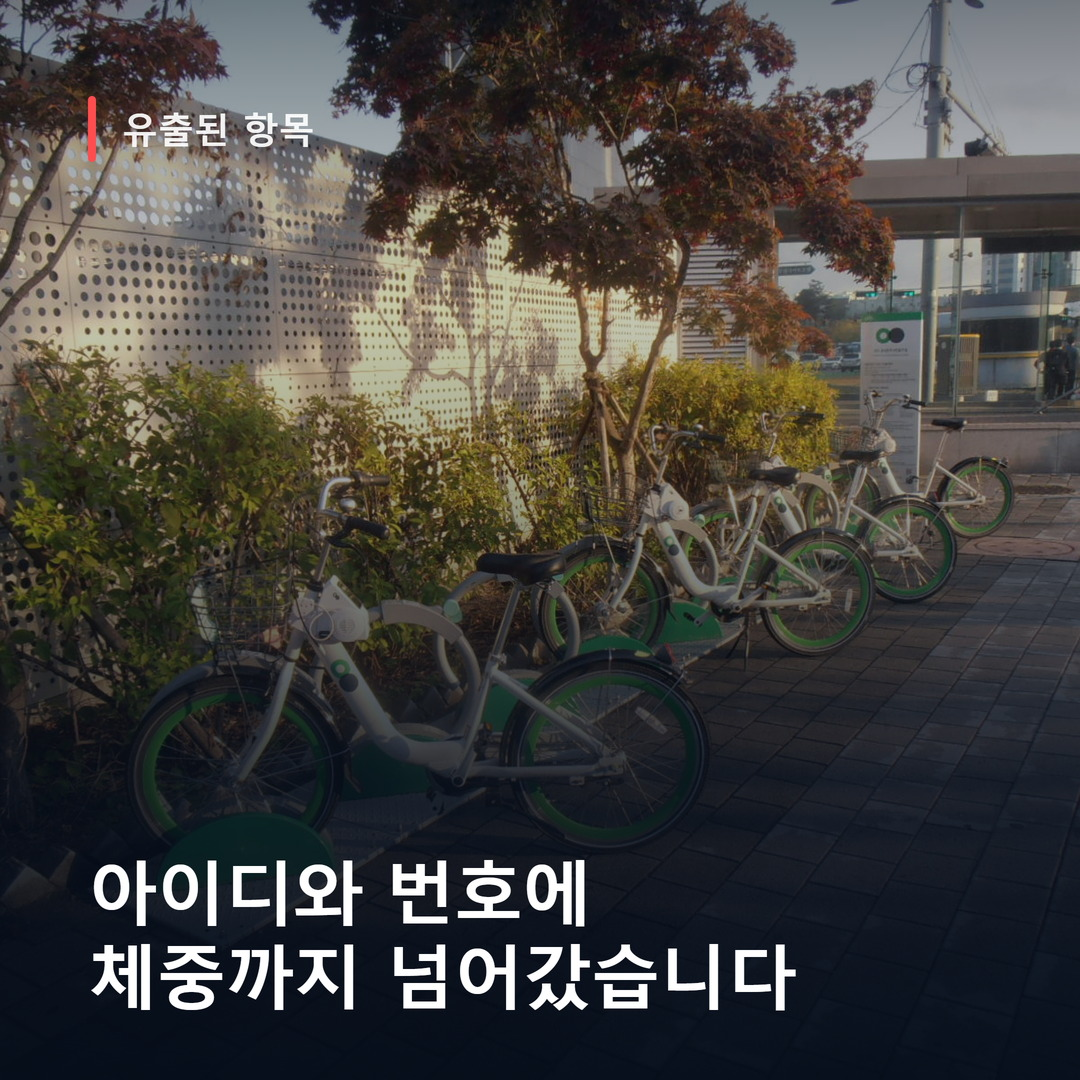
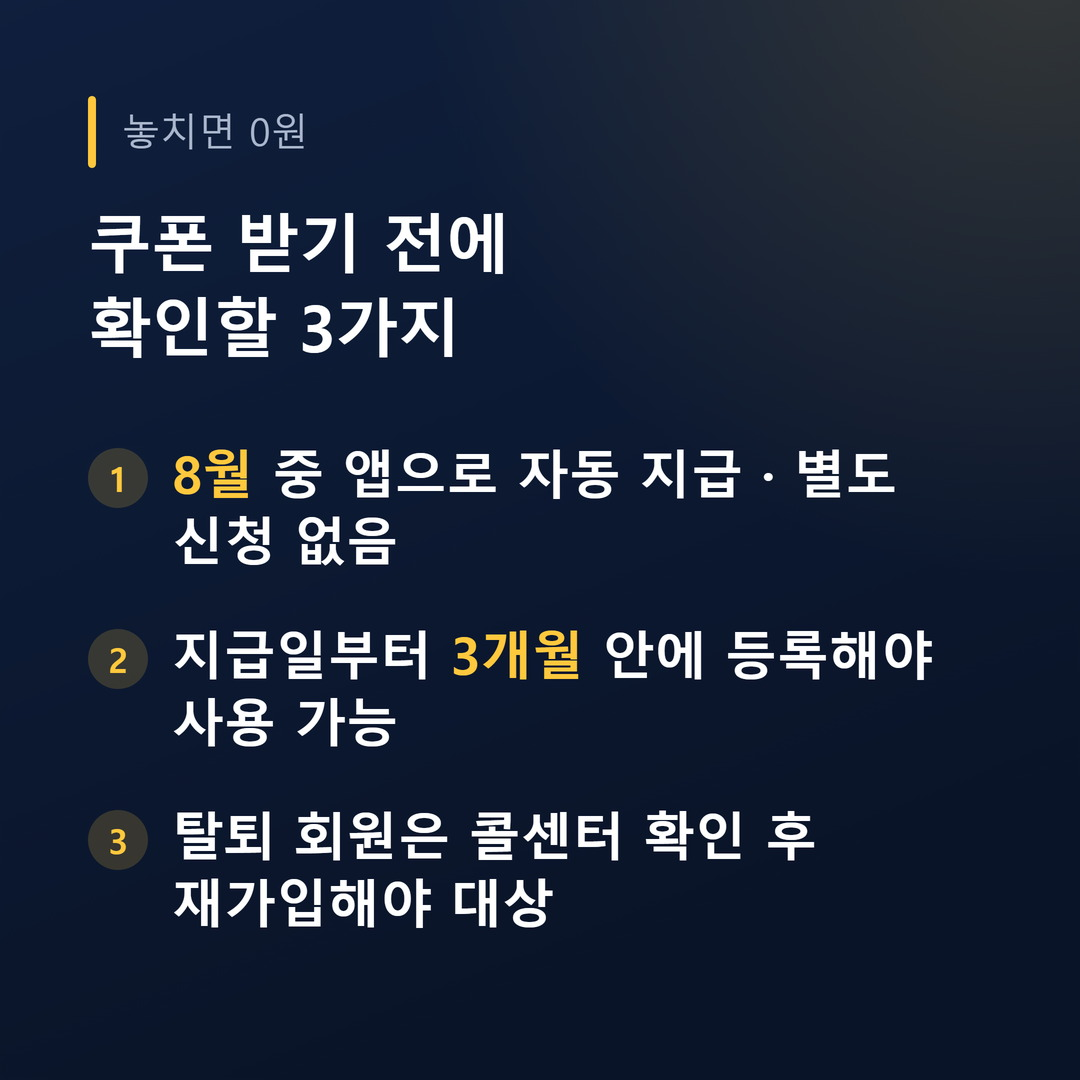
tune: 홈판 분량 1455에서 1002자로, 이미지 5장에서 3장으로
1400~1600 은 economy-blog 스펙을 근거 없이 가져온 값이었다.
그 문서에도 왜 그 숫자인지 근거가 없다. 게다가 구해돈 매뉴얼 첫 줄은
economy-blog 를 홈판용, 여기를 검색 유입용으로 명시하고 있다.

줄이는 근거 세 가지
  1. 링크를 26퍼센트에 두는 설계와 긴 본문이 서로 싸운다. 뒤에 74퍼센트가 남는다.
  2. 같은 소재로 10건을 뿌리므로 길수록 유사문서 표면적이 커진다.
  3. 렌더 비용 10건x5장 50장에서 30장으로.

빌더가 분량과 장수를 데이터에서 읽도록 고쳤다. chars_range 로 트랙마다 조정한다.
1002자 대비 카드 33퍼센트 텍스트 85퍼센트. 문제 0건.

다만 1400 도 1000 도 실측 근거는 없다. 발행 결과로 정해야 한다.

diff --git a/output/0810_홈판/네이버_스탠바이_홈판.html b/output/0810_홈판/네이버_스탠바이_홈판.html
@@ -15,7 +15,7 @@ table{width:100%;border-collapse:collapse;background:#fff;font-size:13px;border:
 th,td{border-bottom:1px solid #eef1f5;padding:9px 12px;text-align:left} th{background:#eef1f5}
 </style>
 <h1>구해돈 · 네이버 홈판 스탠바이</h1>
-<div class="meta">0810 · 따릉이 개인정보 유출 보상 · 본문 1,455자 · 사진 5장 · 검증 문제 없음</div>
+<div class="meta">0810 · 따릉이 개인정보 유출 보상 · 본문 1,002자 · 사진 3장 · 검증 문제 없음</div>
 
 <div class="warn">
 <b>붙여넣는 순서</b><br>
@@ -41,8 +41,6 @@ th,td{border-bottom:1px solid #eef1f5;padding:9px 12px;text-align:left} th{backg
 시중가 5,000원 상당이고 8월 중에 앱으로 들어옵니다.
 그런데 막상 확인해보면 내가 대상인지부터 애매한 분들이 많습니다.
    
-【2번 사진】
-   
 📌 대상자 기준이 생각보다 갈립니다
 유출이 일어난 시점은 2024년 6월 28일에서 29일 사이입니다.
 기준은 지금 회원인지가 아니라 그때 가입 상태였는지입니다.
@@ -53,67 +51,43 @@ th,td{border-bottom:1px solid #eef1f5;padding:9px 12px;text-align:left} th{backg
 가족 명의로 쓰신 분은 명의자와 실사용자가 달라 또 갈립니다.
    
 462만 명이면 서울 인구를 훌쩍 넘는 규모입니다.
-따릉이가 서울시민만 쓰는 서비스가 아니라서 그렇습니다.
 관광이나 출장으로 딱 한 번 가입했던 분도 그대로 들어갑니다.
-   
-【3번 사진】
    
 그래서 문자를 받았는지로 판단하면 틀립니다.
 본인이 어느 갈래인지는 가입 시기부터 맞춰봐야 나옵니다.
    
+【2번 사진】
+   
 【여기에 허브 URL 단독 입력 + 엔터 → 이미지 카드】
    
-📌 왜 문자를 못 받은 사람이 더 위험할까
-문자가 안 왔으니 나는 아니라고 넘겨버리기가 참 쉽습니다.
-그런데 통지는 공단이 보유한 연락처로 나갔습니다.
+📌 문자를 못 받은 사람이 더 위험한 이유
+통지는 공단이 갖고 있던 연락처로 나갔습니다.
 그 사이 번호가 바뀌었다면 대상인데도 아무 연락을 못 받습니다.
    
-탈퇴 회원도 마찬가지입니다.
-공단은 콜센터 확인을 거쳐 재가입하면 지급 대상에 포함된다고 안내했습니다.
-가만히 있으면 대상인데도 그냥 지나갑니다.
-   
-침입 경로를 두고는 10대 청소년이 관여했다는 보도가 이어졌습니다.
-사실이라면 고난도 공격에 뚫린 게 아니라는 얘기가 됩니다.
-462만 명분 서버가 그 정도 방어선이었다는 뜻이죠.
+탈퇴 회원도 콜센터 확인 후 재가입하면 지급 대상에 들어갑니다.
+가만히 있으면 대상인데도 그냥 지나가는 겁니다.
    
 유출 항목도 가볍지 않았습니다.
 아이디와 생년월일, 성별, 번호, 이메일에 체중까지 포함됐습니다.
-자전거를 빌리려고 넣은 신체 정보가 그대로 넘어간 겁니다.
    
 📌 이 보상에서 웃는 쪽은 누구일까
-통지까지 2년 가까이 걸렸다는 점도 짚어야 합니다.
+통지까지 2년 가까이 걸렸습니다.
 유출은 2024년 6월인데 안내는 2026년 7월에 시작됐습니다.
    
-5천 원이라는 금액도 지적을 받지만 더 볼 건 지급 방식입니다.
-현금이 아니라 자사 서비스 이용권으로 나갑니다.
-공단은 현금 지출 없이 보상을 마무리할 수 있는 구조인 거죠.
+보상은 현금이 아니라 자사 서비스 이용권입니다.
+공단은 현금 지출 없이 마무리할 수 있는 구조인 거죠.
+거기에 3개월 사용 기한까지 붙습니다.
    
-여기에 3개월이라는 사용 기한이 붙습니다.
-등록하지 않고 지나가면 그 쿠폰은 조용히 소멸합니다.
-462만 장 중 실제로 쓰이는 비율은 아무도 장담하지 못합니다.
-   
-【4번 사진】
+【3번 사진】
    
 💡 안 쓰면 없던 일이 되는 보상은, 지급률이 아니라 사용률로 봐야 진짜 규모가 보입니다.
    
 📌 3개월이 언제부터인지가 사람마다 다릅니다
-상세 일정은 8월 14일에 홈페이지와 앱 공지로 안내될 예정입니다.
-별도 신청은 없고 대상자에게 자동으로 들어옵니다.
-   
-문제는 소멸일입니다.
 새로 받는 분은 지급일부터 3개월입니다.
-그런데 이미 정기권을 쓰고 계신 분은 기존 이용권이 끝난 다음부터 계산됩니다.
+그런데 이미 정기권을 쓰고 계신 분은 기존 이용권이 끝난 다음부터입니다.
    
 같은 날 받아도 소멸 날짜가 서로 다르다는 뜻입니다.
-내 쿠폰이 언제까지인지는 지금 이용권 상황을 넣어봐야 나옵니다.
-   
-【5번 사진】
-   
-한 가지만 더 조심하세요.
-공식 보상은 외부 링크를 눌러 신청하는 방식이 아닙니다.
-쿠폰 확인이나 보상금을 내세워 링크를 보내는 문자는 사칭입니다.
-   
-💡 개인정보의 값이 5천 원인 것도 씁쓸하지만, 그 5천 원마저 안 챙기면 0원이 된다는 게 진짜 결말입니다.
+쿠폰 확인을 내세워 링크를 보내는 문자는 사칭이니 조심하세요.
    
 📝 한눈에 보는 절약 노트
 지급 시기 8월 중, 방식은 앱 자동 지급입니다.
@@ -128,8 +102,8 @@ https://savemoney119.com/ttareungi-privacy-leak-compensation/
    
 #따릉이 #따릉이보상쿠폰 #따릉이개인정보유출 #따릉이정기권 #서울시설공단 #개인정보유출보상 #30일정기권 #따릉이앱</pre>
 <div style="display:none" id="u">https://savemoney119.com/ttareungi-privacy-leak-compensation/</div>
-<h2>사진 5장</h2>
-<table><tr><th>파일</th><th>종류</th><th>들어가는 자리</th><th>카피</th></tr><tr><td><b>1번 사진</b></td><td>홈판 대표 썸네일</td><td>제목 바로 아래</td><td>따릉이 5천원 쿠폰 / 3개월 뒤 사라집니다</td></tr><tr><td><b>2번 사진</b></td><td>실사 카드</td><td>도입 3문장 직후</td><td>아이디와 번호에 체중까지 넘어갔습니다</td></tr><tr><td><b>3번 사진</b></td><td>숫자 카드</td><td>대상자 갈래 설명 끝</td><td>462만 명 — 1인당 돌아온 건 5천원짜리 이용권입니다</td></tr><tr><td><b>4번 사진</b></td><td>정리 카드</td><td>관점 챕터 끝</td><td>쿠폰 받기 전에 확인할 3가지</td></tr><tr><td><b>5번 사진</b></td><td>막대 카드</td><td>소멸일 챕터 끝</td><td>알리는 데 2년, 쓰는 데 3개월</td></tr></table>
+<h2>사진 3장</h2>
+<table><tr><th>파일</th><th>종류</th><th>들어가는 자리</th><th>카피</th></tr><tr><td><b>1번 사진</b></td><td>홈판 대표 썸네일</td><td>제목 바로 아래</td><td>따릉이 5천원 쿠폰 / 3개월 뒤 사라집니다</td></tr><tr><td><b>2번 사진</b></td><td>정리 카드</td><td>중간 URL 카드 바로 위</td><td>쿠폰 받기 전에 확인할 3가지</td></tr><tr><td><b>3번 사진</b></td><td>막대 카드</td><td>관점 챕터 끝</td><td>알리는 데 2년, 쓰는 데 3개월</td></tr></table>
 <script>
 const b=document.getElementById('b');
 b.innerHTML=b.innerHTML

diff --git a/_engine/build_homefeed.py b/_engine/build_homefeed.py
@@ -34,9 +34,13 @@ REPO = pathlib.Path(__file__).resolve().parent.parent
 BR = "   "                      # 점자 빈칸 3개 — 문단 구분
 URL_SLOT = "【여기에 허브 URL 단독 입력 + 엔터 → 이미지 카드】"
 
-MIN_CHARS, MAX_CHARS = 1400, 1600
+# 분량·장수는 데이터에서 읽는다. 아직 실측으로 확정된 값이 아니라 트랙마다 다르게 간다.
+#   economy-blog 홈판 스펙은 1,400~1,600자지만 그건 뉴스 소재 · 하루 소수 발행 기준이다.
+#   구해돈은 같은 소재로 10건을 뿌리므로 길수록 유사문서 표면적이 커진다.
+#   게다가 링크를 26% 지점에 두는 설계와 긴 본문은 서로 싸운다.
+#   → 기본을 1,000~1,300 으로 낮춰 잡고, 발행 결과를 보고 조정한다.
+DEFAULT_CHARS = (1000, 1300)
 TAGS_PER_POST = 8
-IMAGES_PER_POST = 5
 MAX_SENT = 60                                  # 한 문장 60자
 
 MARKER_RE = re.compile(r"【\s*\d+\s*번\s*사진\s*】")
@@ -46,7 +50,7 @@ SKIP_PREFIX = ("http", "👉", "💡", "📌", "📝", "※", "#", "【", " ")
 def build_body(d: dict) -> str:
     """플레이스홀더를 실제 마커·링크로 바꾼다."""
     body = d["body"]
-    for i in range(1, IMAGES_PER_POST + 1):
+    for i in range(1, len(d["images"]) + 1):
         body = body.replace(f"{{{{IMG{i}}}}}", f"【{i}번 사진】")
     body = body.replace("{{URL_CARD}}", URL_SLOT)
     body = body.replace("{{URL_TEXT}}", f"{d['cta_text']}\n{d['hub']}")
@@ -56,6 +60,8 @@ def build_body(d: dict) -> str:
 
 def validate(body: str, d: dict) -> list[str]:
     probs: list[str] = []
+    lo, hi = d.get("chars_range", DEFAULT_CHARS)
+    n_img = len(d["images"])
 
     tags = [t for t in body.split() if t.startswith("#")]
     inline = re.findall(r"https?://\S+", body)
@@ -66,8 +72,8 @@ def validate(body: str, d: dict) -> list[str]:
     txt = re.sub(r"【[^】]*】", "", txt)
     txt = re.sub(r"#\S+", "", txt)
     n = len(re.sub(r"\s", "", txt))
-    if not (MIN_CHARS <= n <= MAX_CHARS):
-        probs.append(f"본문 {n}자 — 홈판 규격 {MIN_CHARS:,}~{MAX_CHARS:,}자 벗어남")
+    if not (lo <= n <= hi):
+        probs.append(f"본문 {n}자 — 규격 {lo:,}~{hi:,}자 벗어남")
 
     # 링크 — 본문에 박히는 건 최하단 텍스트 링크 하나뿐. 중간은 자리만 비워둔다.
     if len(inline) != 1:
@@ -87,8 +93,8 @@ def validate(body: str, d: dict) -> list[str]:
     if first < len(body) * 0.25:
         probs.append(f"첫 링크가 글 앞 {first/len(body)*100:.0f}% 지점 — 25% 이후여야 함")
 
-    if len(markers) != IMAGES_PER_POST:
-        probs.append(f"사진 마커 {len(markers)}개 — {IMAGES_PER_POST}개여야 함")
+    if len(markers) != n_img:
+        probs.append(f"사진 마커 {len(markers)}개 — {n_img}개여야 함")
     if body.find("【1번 사진】") > len(body) * 0.1:
         probs.append("1번 사진(대표 썸네일)이 맨 위가 아니다")
     if len(tags) != TAGS_PER_POST:
@@ -109,6 +115,7 @@ def validate(body: str, d: dict) -> list[str]:
 
 
 def render_html(d: dict, body: str, chars: int, probs: list[str]) -> str:
+    n_img = len(d["images"])
     imgs = "".join(
         f"<tr><td><b>{html.escape(i['file'])}</b></td><td>{html.escape(i['kind'])}</td>"
         f"<td>{html.escape(i['where'])}</td><td>{html.escape(i['copy'])}</td></tr>"
@@ -132,7 +139,7 @@ table{{width:100%;border-collapse:collapse;background:#fff;font-size:13px;border
 th,td{{border-bottom:1px solid #eef1f5;padding:9px 12px;text-align:left}} th{{background:#eef1f5}}
 </style>
 <h1>구해돈 · 네이버 홈판 스탠바이</h1>
-<div class="meta">{d['date']} · {html.escape(d['topic'])} · 본문 {chars:,}자 · 사진 5장 · 검증 {ok}</div>
+<div class="meta">{d['date']} · {html.escape(d['topic'])} · 본문 {chars:,}자 · 사진 {n_img}장 · 검증 {ok}</div>
 {f'<div class="bad"><b>검증 실패</b><ul>{plist}</ul></div>' if probs else ''}
 <div class="warn">
 <b>붙여넣는 순서</b><br>
@@ -154,7 +161,7 @@ th,td{{border-bottom:1px solid #eef1f5;padding:9px 12px;text-align:left}} th{{ba
 <button class="sm" onclick="cp(this,'u')">허브 URL 복사</button></div>
 <pre id="b">{html.escape(body)}</pre>
 <div style="display:none" id="u">{html.escape(d['hub'])}</div>
-<h2>사진 5장</h2>
+<h2>사진 {n_img}장</h2>
 <table><tr><th>파일</th><th>종류</th><th>들어가는 자리</th><th>카피</th></tr>{imgs}</table>
 <script>
 const b=document.getElementById('b');
@@ -190,7 +197,7 @@ def main() -> None:
     card_at = body.find(URL_SLOT) / len(body) * 100
     link = re.findall(r"https?://\S+", body)
     text_at = body.find(link[0]) / len(body) * 100 if link else 0
-    print(f"본문 {chars:,}자 · 사진 5장 · 태그 8개")
+    print(f"본문 {chars:,}자 · 사진 {len(d['images'])}장 · 태그 {TAGS_PER_POST}개")
     print(f"중간 이미지 카드  {card_at:4.0f}% 지점")
     print(f"최하단 텍스트 링크 {text_at:4.0f}% 지점")
     print("문제 " + (f"{len(probs)}건" if probs else "0건"))
